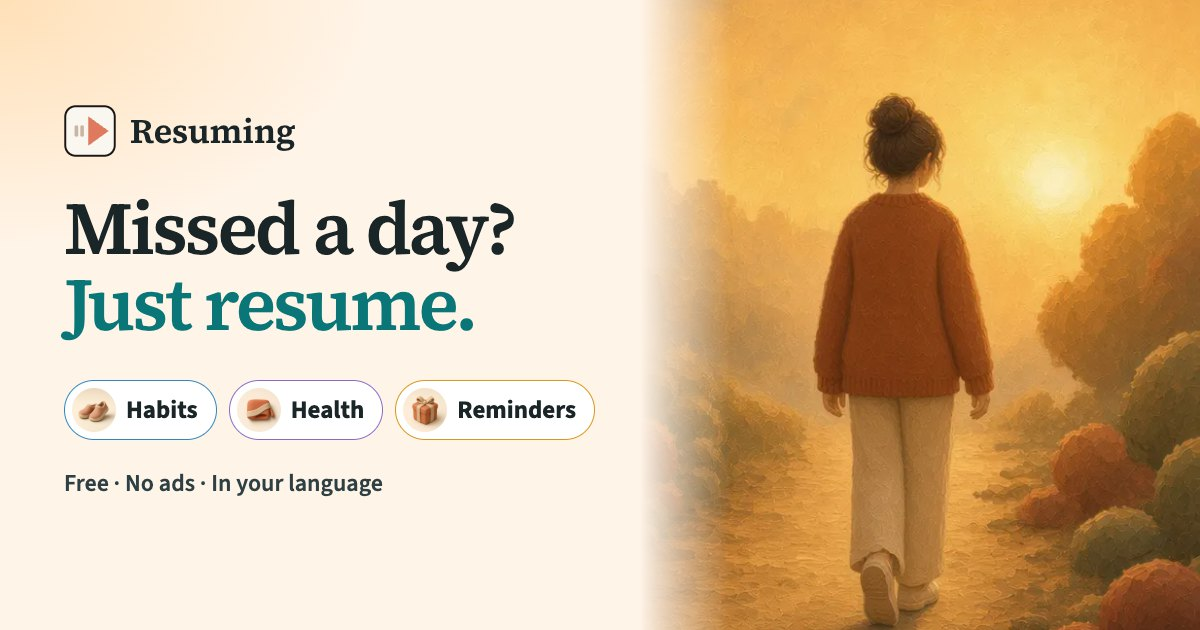
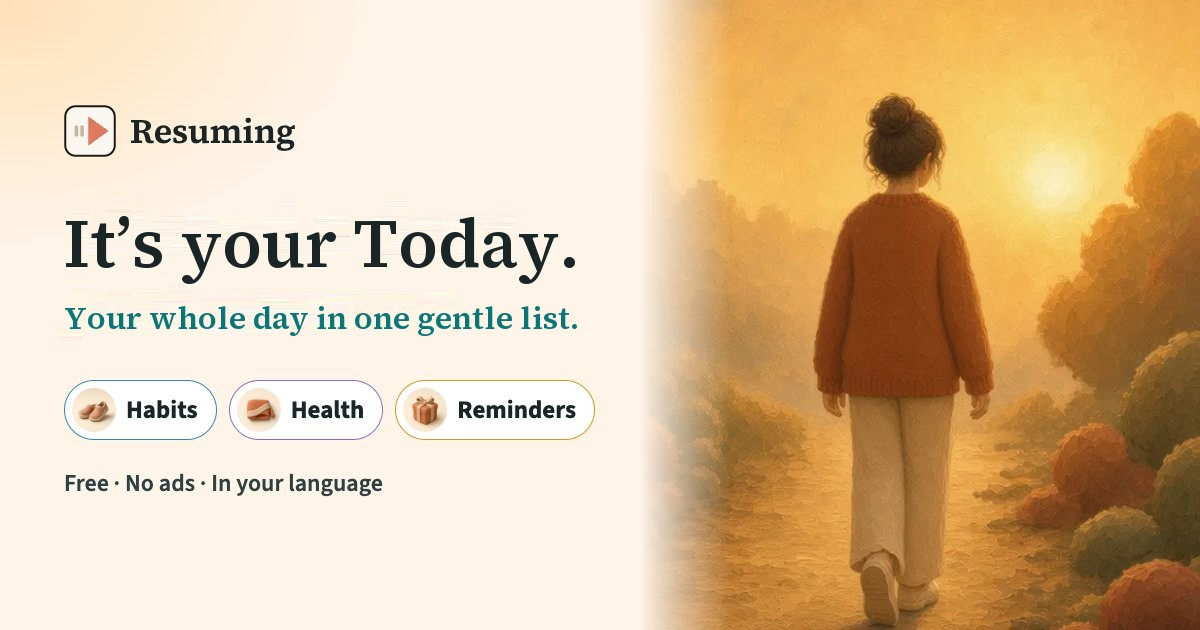
Lead both sites with It’s your Today.
The daily list is the headline now, and Missed a day? Just resume. stays on the page as the line that explains the name.

Changed region(s): [[0.0308, 0.3016, 0.4933, 0.5429]]

diff --git a/marketing/src/i18n/en.ts b/marketing/src/i18n/en.ts
@@ -3,9 +3,10 @@ export const en = {
   lang: 'en',
   dir: 'ltr',
   meta: {
-    title: 'Resuming: Free Habit, Health & Reminder App for Everyone',
+    title: 'Resuming: It’s your Today · Free Habit, Reminder & Meetup App',
+    socialTitle: 'Resuming: It’s your Today',
     description:
-      'Habits like walking, water and Pranayam. Your BP, weight and steps. Reminders for bills, doctor visits and weddings. Free, no ads, in 7 languages.',
+      'Your whole day in one gentle list: habits, reminders, meetups, health, holidays and games. Free, no ads, in 7 languages.',
     imageAlt: 'Resuming. Missed a day? Just resume. Habits, Health and Reminders, beside a painting of a woman walking toward the morning sun.',
   },
   nav: {
@@ -32,9 +33,10 @@ export const en = {
   },
   hero: {
     eyebrow: 'No ads · 7 languages · Works in your browser',
-    title: 'Missed a day?',
+    title: 'It’s your Today.',
     titleAccent: 'Just resume.',
-    sub: 'A free daily app to track your habits, health and reminders.',
+    subtitle: 'Your whole day in one gentle list.',
+    sub: 'A free daily app for your habits, reminders, meetups, health, holidays and games, all on one screen. Plan ahead for tomorrow, and if you miss a day, just resume.',
     lead: 'One gentle list for your day: a short walk, water, Pranayam, your BP, and the family’s bills, doctor visits and weddings. When life gets busy, pick up where you left off. No guilt, no broken streaks.',
     videoLabel: 'The Resuming app: ticking off water, a Kapalabhati timer, resuming a walk, and a wedding reminder with its invitation card.',
     captions: [
@@ -62,6 +64,8 @@ export const en = {
     ],
   },
   idea: {
+    resumeLead: 'Missed a day?',
+    resumeAccent: 'Just resume.',
     title: 'Starting again is the skill.',
     body: 'Most habit apps count how long you kept going. Resuming cares about how often you come back. A missed day isn’t a failure. It’s just a day. Tap Resume, and the minutes you already did are still there.',
     alt: 'A woman meditating by a sunrise window, with a glass of water, a blood pressure cuff, walking shoes, and a board of dates to remember.',
@@ -249,6 +253,8 @@ export const en = {
     ],
   },
   final: {
+    resumeLead: 'Missed a day?',
+    resumeAccent: 'Just resume.',
     title: 'Start with one small thing today.',
     body: 'A walk, a glass of water, five minutes of breathing. Resuming will be there when you come back.',
   },

diff --git a/src/components/LandingPage.tsx b/src/components/LandingPage.tsx
@@ -5,11 +5,7 @@ import { BrandTitle } from './BrandTitle'
 import { SiteFooter } from './SiteFooter'
 import { trackPageView } from '../lib/analytics'
 import { consumeAccountDeletedFlag } from '../lib/clearLocalData'
-import {
-  DEFAULT_DESCRIPTION,
-  DEFAULT_TITLE,
-  useDocumentMeta,
-} from '../hooks/useDocumentMeta'
+import { useDocumentMeta } from '../hooks/useDocumentMeta'
 import { playStoreUrl } from '../lib/marketing'
 import { track } from '../lib/track'
 import { useLocale } from '../hooks/useLocale'
@@ -49,8 +45,10 @@ export function LandingPage({
   const [accountDeleted] = useState(() => consumeAccountDeletedFlag())
 
   useDocumentMeta({
-    title: DEFAULT_TITLE,
-    description: DEFAULT_DESCRIPTION,
+    title: 'Resuming: It’s your Today · Habits & Reminders',
+    ogTitle: 'Resuming: It’s your Today',
+    description:
+      'Your whole day in one gentle list: habits, reminders, meetups, health, holidays and games. Free, no ads.',
     path: '/',
   })
 
@@ -89,10 +87,10 @@ export function LandingPage({
       <div className="landing">
         <div className="landing-card">
           <LandingBrand />
-          <p className="tagline">
-            {t('landing.tagline')}
-            <span className="tagline-accent">{t('landing.taglineAccent')}</span>
-          </p>
+          <h1 className="tagline">
+            {t('landing.heroTitle')}
+            <span className="tagline-accent">{t('landing.heroSubtitle')}</span>
+          </h1>
           <div className="notice notice-warning">
             <p>{configError ?? 'Supabase is not configured.'}</p>
           </div>
@@ -106,11 +104,13 @@ export function LandingPage({
     <div className="landing">
       <div className="landing-card">
         <LandingBrand />
-        <p className="tagline">
-          {t('landing.tagline')}
-          <span className="tagline-accent">{t('landing.taglineAccent')}</span>
+        <h1 className="tagline">
+          {t('landing.heroTitle')}
+          <span className="tagline-accent">{t('landing.heroSubtitle')}</span>
+        </h1>
+        <p className="explainer">
+          {t('landing.explainer')} <span className="resume-accent">{t('landing.taglineAccent')}</span>
         </p>
-        <p className="explainer">{t('landing.explainer')}</p>
 
         <figure className="landing-hero-figure">
           <img

diff --git a/index.html b/index.html
@@ -9,25 +9,25 @@
     <meta name="theme-color" content="#fff4e8" />
     <meta
       name="description"
-      content="Track your day, gently. Missed a day? Just resume."
+      content="Your whole day in one gentle list: habits, reminders, meetups, health, holidays and games. Free, no ads."
     />
     <link rel="canonical" href="https://resuming.me/" />
     <meta property="og:type" content="website" />
     <meta property="og:site_name" content="Resuming" />
-    <meta property="og:title" content="Resuming: Habits &amp; Reminders" />
+    <meta property="og:title" content="Resuming: It’s your Today" />
     <meta
       property="og:description"
-      content="Track your day, gently. Missed a day? Just resume."
+      content="Your whole day in one gentle list: habits, reminders, meetups, health, holidays and games. Free, no ads."
     />
     <meta property="og:url" content="https://resuming.me/" />
     <meta property="og:image" content="https://resuming.me/og.jpg" />
     <meta property="og:image:width" content="1200" />
     <meta property="og:image:height" content="630" />
     <meta name="twitter:card" content="summary_large_image" />
-    <meta name="twitter:title" content="Resuming: Habits &amp; Reminders" />
+    <meta name="twitter:title" content="Resuming: It’s your Today" />
     <meta
       name="twitter:description"
-      content="Track your day, gently. Missed a day? Just resume."
+      content="Your whole day in one gentle list: habits, reminders, meetups, health, holidays and games. Free, no ads."
     />
     <meta name="twitter:image" content="https://resuming.me/og.jpg" />
     <script>
@@ -78,7 +78,7 @@
       type="font/woff2"
       crossorigin
     />
-    <title>Resuming: Habits &amp; Reminders</title>
+    <title>Resuming: It’s your Today · Habits &amp; Reminders</title>
   </head>
   <body>
     <div id="root"></div>

diff --git a/src/hooks/useDocumentMeta.ts b/src/hooks/useDocumentMeta.ts
@@ -2,7 +2,7 @@ import { useEffect } from 'react'
 
 const DEFAULT_TITLE = 'Resuming: Habits & Reminders'
 const DEFAULT_DESCRIPTION =
-  'Track your day, gently. Missed a day? Just resume.'
+  'Your whole day in one gentle list: habits, reminders, meetups, health, holidays and games. Free, no ads.'
 
 function upsertMeta(attr: 'name' | 'property', key: string, content: string) {
   let el = document.head.querySelector(`meta[${attr}="${key}"]`)
@@ -26,6 +26,8 @@ function upsertLink(rel: string, href: string) {
 
 export interface DocumentMetaOptions {
   title: string
+  /** Social title when it should be shorter than the browser title. */
+  ogTitle?: string
   description?: string
   path?: string
   noindex?: boolean
@@ -37,17 +39,21 @@ export interface DocumentMetaOptions {
  */
 export function useDocumentMeta({
   title,
+  ogTitle,
   description = DEFAULT_DESCRIPTION,
   path,
   noindex = false,
 }: DocumentMetaOptions) {
   useEffect(() => {
     const prevTitle = document.title
+    const socialTitle = ogTitle ?? title
     document.title = title
     upsertMeta('name', 'description', description)
     upsertMeta('name', 'robots', noindex ? 'noindex, nofollow' : 'index, follow')
-    upsertMeta('property', 'og:title', title)
+    upsertMeta('property', 'og:title', socialTitle)
     upsertMeta('property', 'og:description', description)
+    upsertMeta('name', 'twitter:title', socialTitle)
+    upsertMeta('name', 'twitter:description', description)
     if (path != null) {
       const url = `https://resuming.me${path === '/' ? '/' : path}`
       upsertMeta('property', 'og:url', url)
@@ -57,7 +63,7 @@ export function useDocumentMeta({
     return () => {
       document.title = prevTitle
     }
-  }, [title, description, path, noindex])
+  }, [title, ogTitle, description, path, noindex])
 }
 
 export { DEFAULT_TITLE, DEFAULT_DESCRIPTION }

diff --git a/src/lib/messages/ta.ts b/src/lib/messages/ta.ts
@@ -37,7 +37,10 @@ export const ta: DeepString<typeof en> = {
   landing: {
     tagline: 'ஒரு நாள் தவறிவிட்டதா?',
     taglineAccent: 'மீண்டும் தொடங்கு.',
-    explainer: 'பழக்கங்கள், உடல்நலம், நினைவுகளைக் கவனிக்க ஒரு இலவச தினசரி செயலி.',
+    heroTitle: 'இது உங்கள் இன்று.',
+    heroSubtitle: 'உங்கள் முழு நாளும், ஒரு எளிய பட்டியலில்.',
+    explainer:
+      'உங்கள் பழக்கங்கள், நினைவூட்டல்கள், சந்திப்புகள், உடல்நலம், பண்டிகைகள், விளையாட்டுகளுக்கான இலவச தினசரி செயலி. ஒரு நாள் தவறிவிட்டதா?',
     getStarted: 'தொடங்கு',
     noAccount: 'முயற்சிக்க கணக்கு தேவையில்லை.',
     getApp: 'செயலியைப் பெறுங்கள்',

diff --git a/src/lib/messages/bn.ts b/src/lib/messages/bn.ts
@@ -37,7 +37,10 @@ export const bn: DeepString<typeof en> = {
   landing: {
     tagline: 'একটা দিন মিস হয়ে গেছে?',
     taglineAccent: 'আবার চালিয়ে যান।',
-    explainer: 'অভ্যাস, স্বাস্থ্য আর রিমাইন্ডার দেখার জন্য একটি বিনামূল্যের দৈনিক অ্যাপ।',
+    heroTitle: 'এটা আপনার আজ।',
+    heroSubtitle: 'আপনার পুরো দিন, একটি সহজ তালিকায়।',
+    explainer:
+      'আপনার অভ্যাস, রিমাইন্ডার, দেখা-সাক্ষাৎ, স্বাস্থ্য, উৎসব আর খেলার জন্য একটি বিনামূল্যের দৈনিক অ্যাপ। একটা দিন মিস হয়ে গেছে?',
     getStarted: 'শুরু করুন',
     noAccount: 'চেষ্টা করে দেখতে অ্যাকাউন্ট লাগবে না।',
     getApp: 'অ্যাপ নিন',

diff --git a/src/lib/messages/te.ts b/src/lib/messages/te.ts
@@ -37,7 +37,10 @@ export const te: DeepString<typeof en> = {
   landing: {
     tagline: 'ఒక రోజు తప్పిందా?',
     taglineAccent: 'మళ్లీ కొనసాగించు.',
-    explainer: 'అలవాట్లు, ఆరోగ్యం, గుర్తులు చూసుకునే ఉచిత రోజువారీ యాప్.',
+    heroTitle: 'ఇది మీ ఈరోజు.',
+    heroSubtitle: 'మీ రోజంతా, ఒక సులభమైన జాబితాలో.',
+    explainer:
+      'మీ అలవాట్లు, రిమైండర్లు, కలయికలు, ఆరోగ్యం, పండుగలు, ఆటల కోసం ఉచిత రోజువారీ యాప్. ఒక రోజు తప్పిందా?',
     getStarted: 'మొదలుపెట్టు',
     noAccount: 'ప్రయత్నించడానికి ఖాతా అవసరం లేదు.',
     getApp: 'యాప్ పొందండి',

diff --git a/src/lib/messages/hi.ts b/src/lib/messages/hi.ts
@@ -37,7 +37,10 @@ export const hi: DeepString<typeof en> = {
   landing: {
     tagline: 'एक दिन छूट गया?',
     taglineAccent: 'बस फिर शुरू करो।',
-    explainer: 'आदतें, स्वास्थ्य और यादें संभालने वाला मुफ़्त रोज़ाना ऐप।',
+    heroTitle: 'यह आपका आज है।',
+    heroSubtitle: 'आपका पूरा दिन, एक सहज सूची में।',
+    explainer:
+      'आपकी आदतों, रिमाइंडर, मुलाकातों, सेहत, त्योहारों और खेलों के लिए एक मुफ़्त रोज़ाना ऐप। एक दिन छूट गया?',
     getStarted: 'शुरू करें',
     noAccount: 'आज़माने के लिए खाता ज़रूरी नहीं।',
     getApp: 'ऐप पाएँ',

diff --git a/src/lib/messages/mr.ts b/src/lib/messages/mr.ts
@@ -37,7 +37,10 @@ export const mr: DeepString<typeof en> = {
   landing: {
     tagline: 'एक दिवस चुकला?',
     taglineAccent: 'पुन्हा सुरू करा.',
-    explainer: 'सवयी, आरोग्य आणि आठवणी सांभाळण्यासाठी मोफत रोजचे ॲप.',
+    heroTitle: 'हा तुमचा आज आहे.',
+    heroSubtitle: 'तुमचा संपूर्ण दिवस, एका सोप्या यादीत.',
+    explainer:
+      'तुमच्या सवयी, रिमाइंडर, भेटीगाठी, आरोग्य, सण आणि खेळांसाठी एक मोफत दैनंदिन ॲप. एक दिवस चुकला?',
     getStarted: 'सुरू करा',
     noAccount: 'वापरून पाहण्यासाठी खाते नको.',
     getApp: 'ॲप मिळवा',

diff --git a/src/lib/messages/gu.ts b/src/lib/messages/gu.ts
@@ -37,7 +37,10 @@ export const gu: DeepString<typeof en> = {
   landing: {
     tagline: 'એક દિવસ ચૂકી ગયા?',
     taglineAccent: 'ફરી ચાલુ રાખો.',
-    explainer: 'આદતો, આરોગ્ય અને યાદ સંભાળવા માટે મફત રોજિંદી ઍપ.',
+    heroTitle: 'આ તમારો આજે છે.',
+    heroSubtitle: 'તમારો આખો દિવસ, એક સરળ યાદીમાં.',
+    explainer:
+      'તમારી આદતો, રિમાઇન્ડર, મુલાકાતો, આરોગ્ય, તહેવારો અને રમતો માટે એક મફત દૈનિક ઍપ. એક દિવસ ચૂકી ગયા?',
     getStarted: 'શરૂ કરો',
     noAccount: 'અજમાવવા માટે ખાતું જરૂરી નથી.',
     getApp: 'ઍપ મેળવો',

diff --git a/marketing/src/styles/site.css b/marketing/src/styles/site.css
@@ -423,6 +423,13 @@ p {
 
 .hero h1 .accent {
   display: block;
+  margin-top: 0.35em;
+  color: var(--primary);
+  font-size: 0.5em;
+  line-height: 1.15;
+}
+
+.resume-accent {
   color: var(--primary);
 }
 
@@ -670,7 +677,12 @@ p {
 }
 
 .idea-text h2 {
-  margin-bottom: 1rem;
+  margin-bottom: 0.35rem;
+}
+
+.idea-kicker {
+  margin: 0 0 1rem;
+  font-weight: 600;
 }
 
 @media (min-width: 900px) {
@@ -1584,6 +1596,11 @@ p {
 .final h2 {
   max-width: 22ch;
   margin-inline: auto;
+}
+
+.final .final-sub {
+  margin: 0.75rem auto 0;
+  font-weight: 600;
 }
 
 .final p {

diff --git a/src/lib/messages/en.ts b/src/lib/messages/en.ts
@@ -31,7 +31,10 @@ export const en = {
   landing: {
     tagline: 'Missed a day?',
     taglineAccent: 'Just resume.',
-    explainer: 'A free daily app to track your habits, health and reminders.',
+    heroTitle: 'It’s your Today.',
+    heroSubtitle: 'Your whole day in one gentle list.',
+    explainer:
+      'A free daily app for your habits, reminders, meetups, health, holidays and games. Missed a day?',
     getStarted: 'Get started',
     noAccount: 'No account needed to try it.',
     getApp: 'Get the app',
